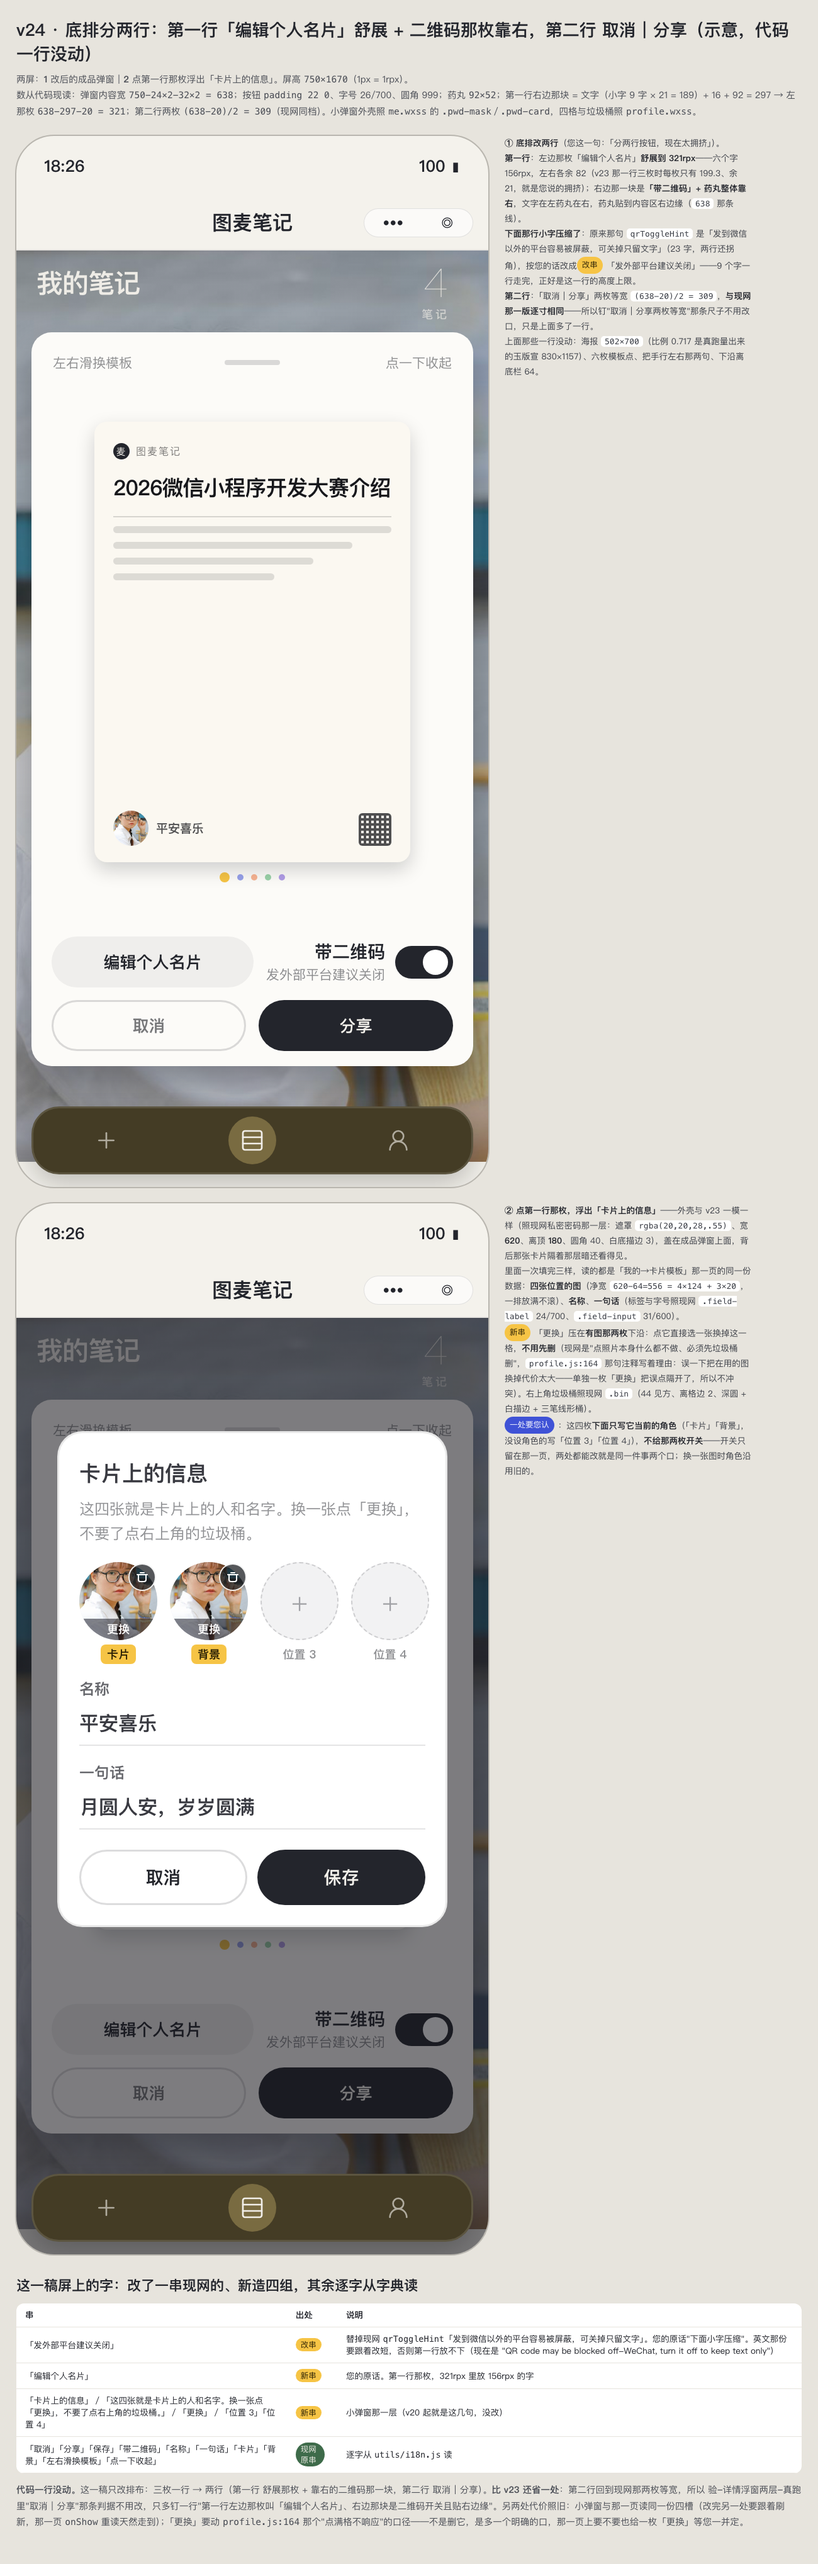
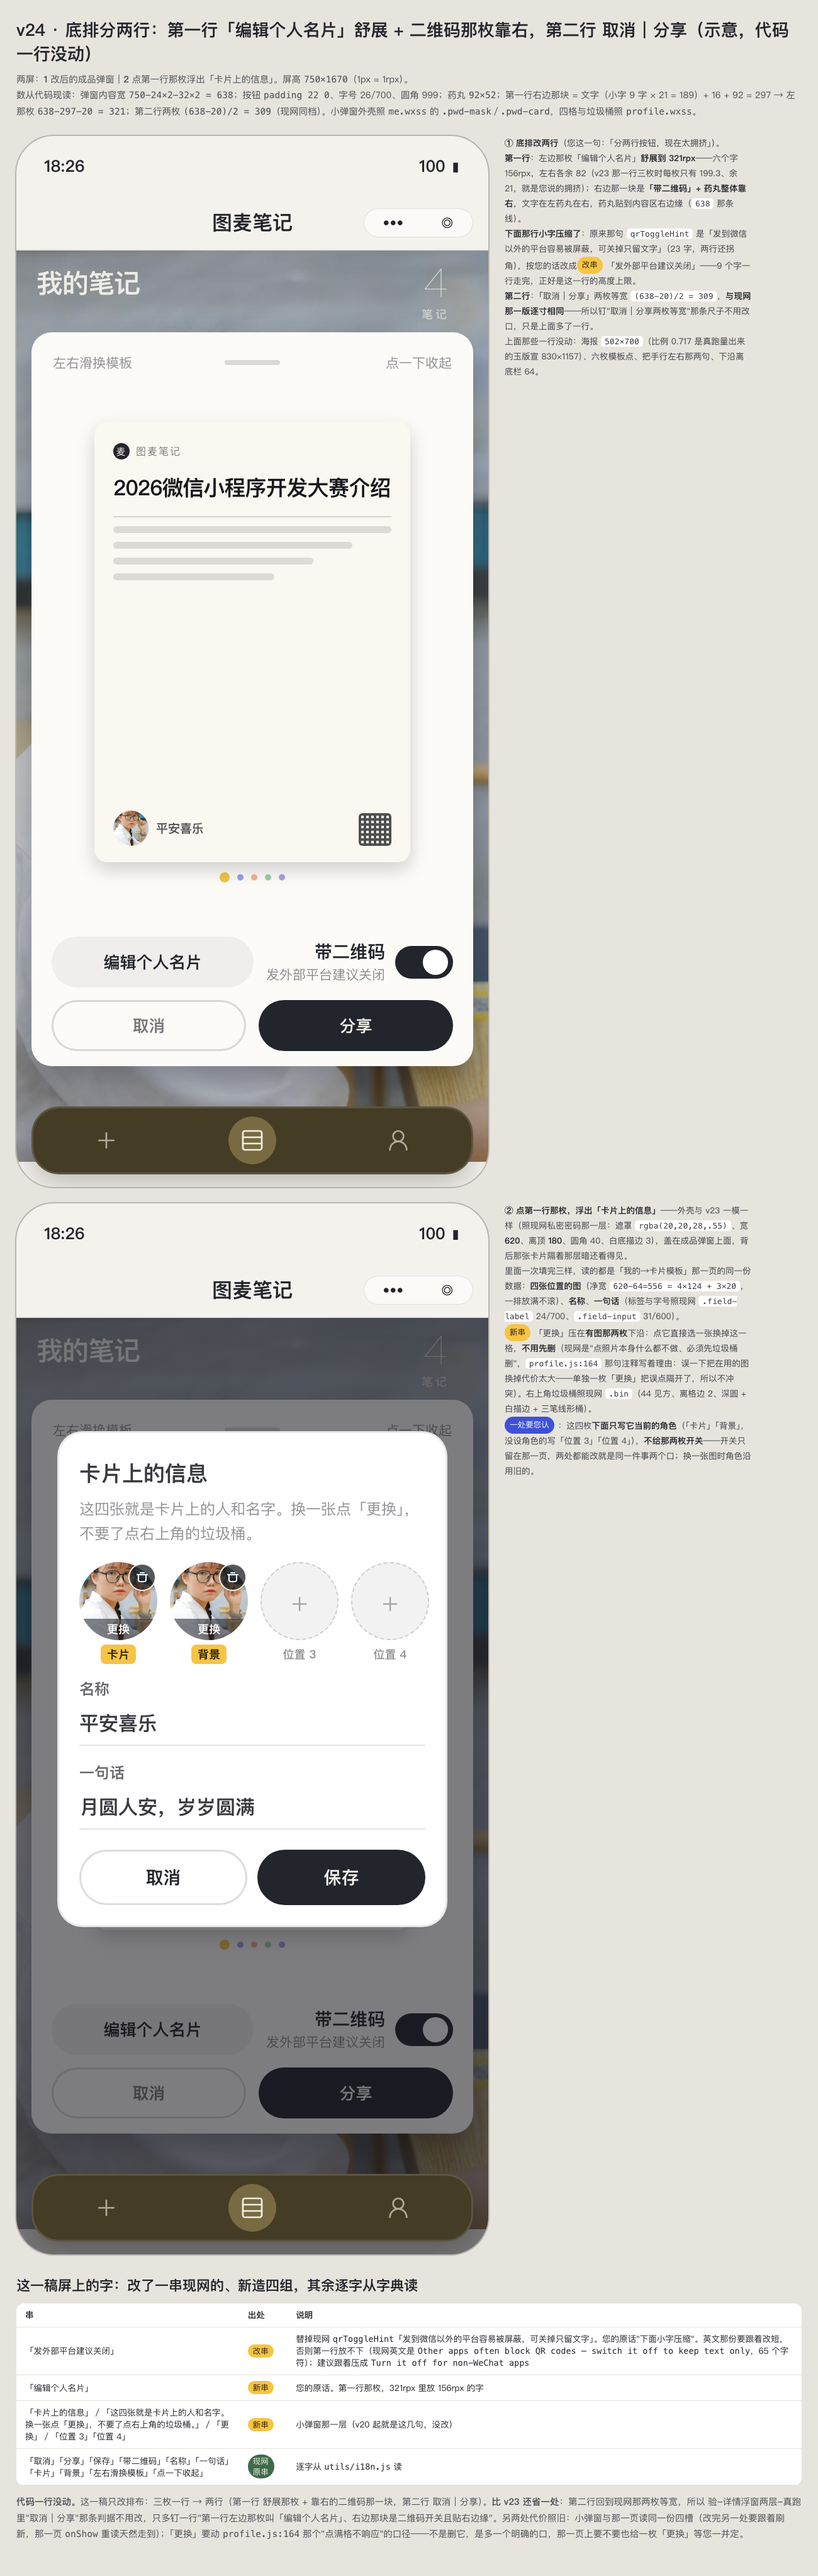
v24 补正：那张表里英文串是我凭印象写的，改成从字典现读
上一提交里那句 "QR code may be blocked off-WeChat…" 现网根本没有，
真实值是「Other apps often block QR codes — switch it off to keep text only」
（66 个字符，正是这一行放不下、必须跟着压短的那个理由）。
现在生成器直接 require i18n.texts('en') 现读，不再手抄。两屏 PNG 没变。

diff --git a/docs/design/10-03名片编辑入口/v24-底排两行.html b/docs/design/10-03名片编辑入口/v24-底排两行.html
@@ -173,7 +173,7 @@ td,th{font-size:13.5px;padding:9px 14px;border-bottom:1px solid #E7E4DD;text-ali
   <div class="acts2"><b class="g">取消</b><b class="p">保存</b></div></div></div></div></div><div class="cap"><b>② 点第一行那枚，浮出「卡片上的信息」</b>——外壳与 v23 一模一样（照现网私密密码那一层：遮罩 <code>rgba(20,20,28,.55)</code>、宽 <b>620</b>、离顶 <b>180</b>、圆角 40、白底描边 3），盖在成品弹窗上面，背后那张卡片隔着那层暗还看得见。<br>里面一次填完三样，读的都是「我的→卡片模板」那一页的同一份数据：<b>四张位置的图</b>（净宽 <code>620−64=556 = 4×124 + 3×20</code>，一排放满不滚）、<b>名称</b>、<b>一句话</b>（标签与字号照现网 <code>.field-label</code> 24/700、<code>.field-input</code> 31/600）。<br><span class="tag new">新串</span>「更换」压在<b>有图那两枚</b>下沿：点它直接选一张换掉这一格，<b>不用先删</b>（现网是"点照片本身什么都不做、必须先垃圾桶删"，<code>profile.js:164</code> 那句注释写着理由：误一下把在用的图换掉代价太大——单独一枚「更换」把误点隔开了，所以不冲突）。右上角垃圾桶照现网 <code>.bin</code>（44 见方、离格边 2、深圆 + 白描边 + 三笔线形桶）。<br><span class="tag pick">一处要您认</span>：这四枚<b>下面只写它当前的角色</b>（「卡片」「背景」，没设角色的写「位置 3」「位置 4」），<b>不给那两枚开关</b>——开关只留在那一页，两处都能改就是同一件事两个口；换一张图时角色沿用旧的。</div></div></div>
 <h2>这一稿屏上的字：改了一串现网的、新造四组，其余逐字从字典读</h2>
 <table><tr><th>串</th><th>出处</th><th>说明</th></tr>
-<tr><td>「发外部平台建议关闭」</td><td><span class="tag new">改串</span></td><td>替掉现网 <code>qrToggleHint</code>「发到微信以外的平台容易被屏蔽，可关掉只留文字」。您的原话"下面小字压缩"。英文那份要跟着改短，否则第一行放不下（现在是 "QR code may be blocked off-WeChat, turn it off to keep text only"）</td></tr>
+<tr><td>「发外部平台建议关闭」</td><td><span class="tag new">改串</span></td><td>替掉现网 <code>qrToggleHint</code>「发到微信以外的平台容易被屏蔽，可关掉只留文字」。您的原话"下面小字压缩"。英文那份要跟着改短，否则第一行放不下（现网英文是 <code>Other apps often block QR codes — switch it off to keep text only</code>，65 个字符）；建议跟着压成 <code>Turn it off for non-WeChat apps</code></td></tr>
 <tr><td>「编辑个人名片」</td><td><span class="tag new">新串</span></td><td>您的原话。第一行那枚，321rpx 里放 156rpx 的字</td></tr>
 <tr><td>「卡片上的信息」／「这四张就是卡片上的人和名字。换一张点「更换」，不要了点右上角的垃圾桶。」／「更换」／「位置 3」「位置 4」</td><td><span class="tag new">新串</span></td><td>小弹窗那一层（v20 起就是这几句，没改）</td></tr>
 <tr><td>「取消」「分享」「保存」「带二维码」「名称」「一句话」「卡片」「背景」「左右滑换模板」「点一下收起」</td><td><span class="tag keep">现网原串</span></td><td>逐字从 <code>utils/i18n.js</code> 读</td></tr></table>
